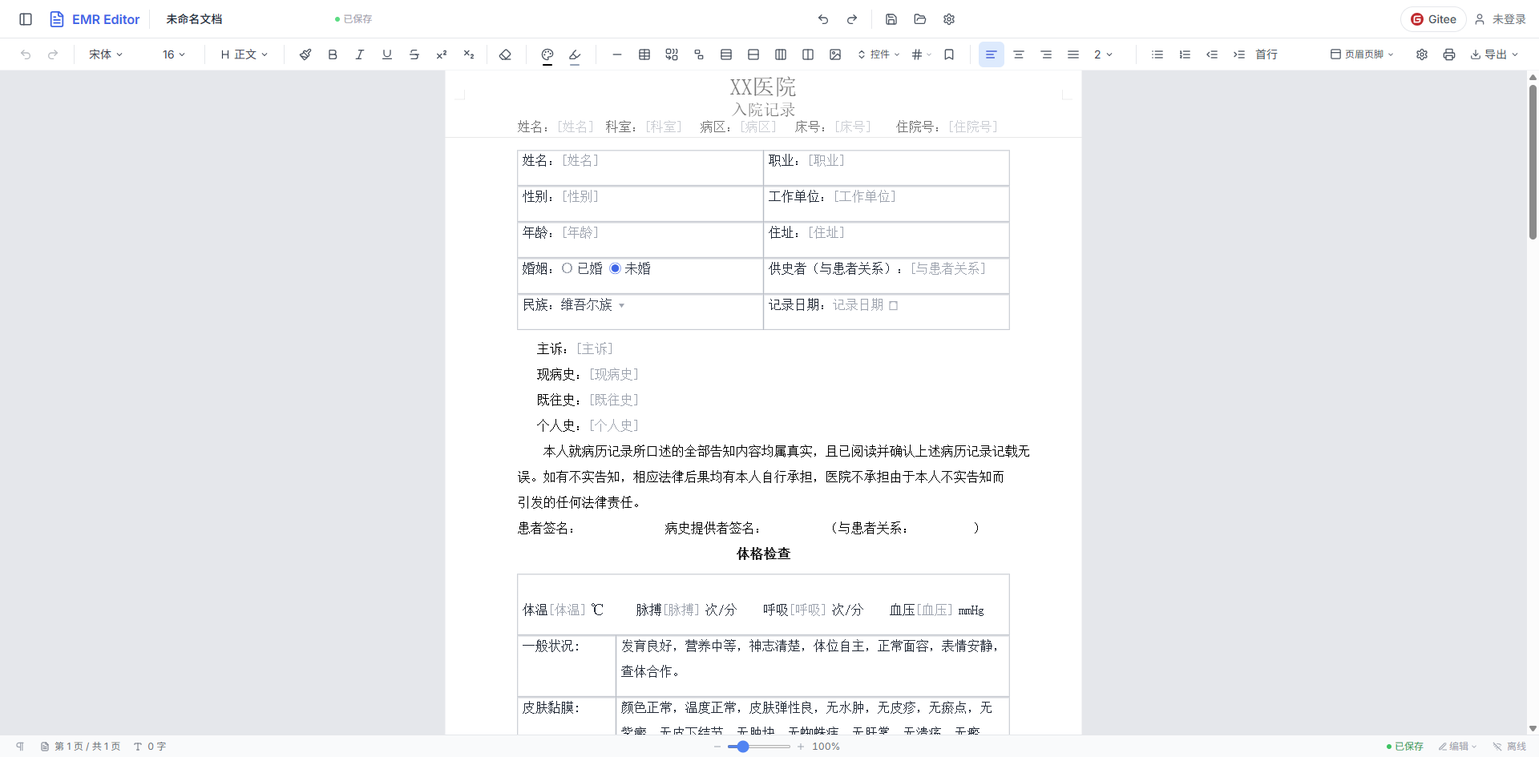
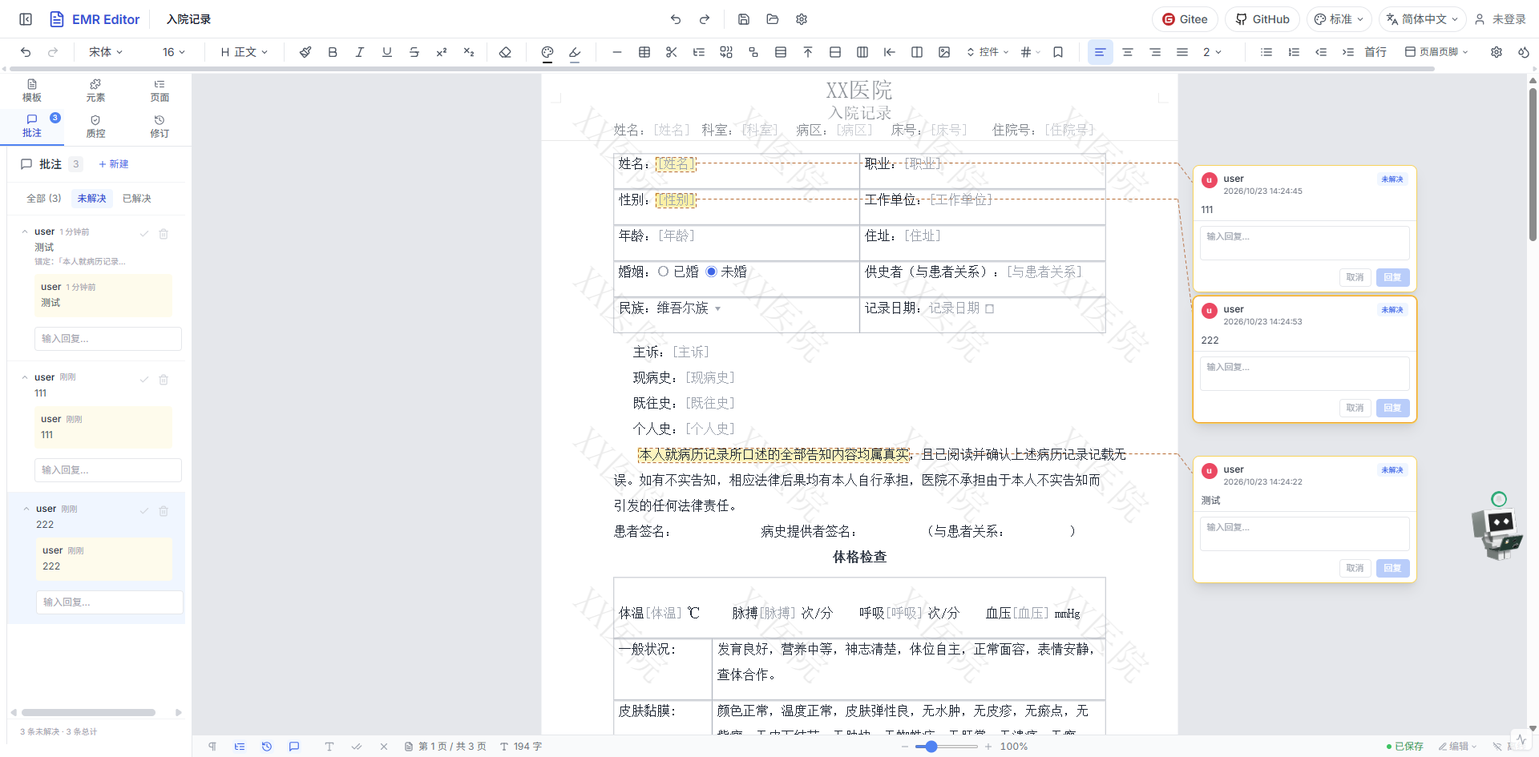
docs: 功能清单与中英 README 同步
- 知识库《编辑器功能清单》: 回填表格边缘交互、批注气泡、侧栏与设计态
  面板定位。
- README (中/英): 命令数 45、i18n 约 870 键、测试 215 文件 / 约 2400
  用例; 补充表格交互、批注气泡、分节符分页、页面设置生效、cell 内联等
  能力; 新增「近期更新」章节与语言切换入口。
- 更新首页预览截图。

diff --git a/knowledge/编辑器功能清单.md b/knowledge/编辑器功能清单.md
@@ -7,6 +7,7 @@
 > **增量收口**：2026-10-19 — `VirtualViewport` 重写为按 SLIF 实测页高的纯函数并接线（`LayoutEngine.getVisiblePages` 委托，契约 §16.1，#104 ✅）；随后 M1-M4 落地：段落布局缓存键 + 段落行缓存 + 增量分页 + 命中索引按页重建（纯文本/图片正文子集，含列表；等价性硬门与 4.6% 实测，见 [增量排版-设计方案.md](knowledge/增量排版-设计方案.md)）。**2026-10-20 表格与脚注引用纳入增量分页**（表格：子树键 + 计算值代次 + 跨页回退，实测 5.8%；脚注：Step 4 只处理新页 + 编号播种）。**2026-10-21 控件纳入增量安全子集**（段落键只对含控件段落追加计算值代次 + 模板定义版本，表格键追加模板定义版本；2000 段控件文档单次编辑 233 → 3.6 ms）；**同日页眉页脚按几何签名纳入**（签名未变时正文档编辑可续排；2000 段带页眉页脚文档 236 → 3.3 ms）；**正文域同日纳入**（含域段落键追加页数位数/locale/标题，`fieldReserveDigits` 单一实现；2000 段域文档 232 → 3.4 ms）；**同日 M2i**：表格 cell 段落补齐 field/image/footnote_ref/cross_reference（此前静默跳过），cell 内域/图片/脚注纳入安全子集（子树含域时 `#f/#l/#t` 进表格键），常量交叉引用（无 `{page}`/`{number}`）纳入行缓存与安全集、占位符版仍全量。
 > **状态复核**：2026-10-19 — 逐节回代码重审状态列（§1-§8），修正 30 余处与代码不符的描述：工具栏/键盘处理行号整体漂移；格式刷、控件插入、表格插入的真实入口；Shift+Enter 软换行**已支持**（旧条目说不支持）；缩进语义（列表走 `adjustListLevel`，非列表 outdent 是清零）；撤销自动合并当时只对 ParagraphStyleCommand 生效（已于 2026-10-20 补齐文本输入/退格，见上）；增量排版 / DirtyTracker / LayoutCache / PageStartTable / VirtualViewport **五个模块当时全部未接线**（其后 VirtualViewport、PageStartTable 与增量排版管线已接线；DirtyTracker 于 2026-10-21 作为死 API 删除；LayoutCache 与 incrementalLayout() 已于 2026-10-20 删除）；CommentParticle / ImageParticle 的真实调度方式；水印方法名；TXT/HTML 导出的实际能力；保存流程已抽 `useDocumentSave`；编辑器加载实际经 `Editor.setDocument → loadDocumentFromObject`（本轮更正：早先"未走 DocumentLoader"的结论是错的）；QC 实际 8 条规则；#41 改为"分支不存在"的 🔴 条目。校验：全文 249 条链接缺失 0；反引号标识符与调用名对源码零误报（仅剩两处刻意的"不存在"说明）
 > **最近更新**：2026-10-19 — 引擎物理剥离后的**全量路径校正**（151 处 `frontend/src/engine/` → `packages/emr-document-engine/src/engine/`，链接逐条实测可解析）；校正 11 处失效条目（#111 已删除的 LaTeXParticle、#113 批注创建、#114/#115 图表与条码粒子可达性、#129 画布主题、#154 质控接线、#156 i18n 采用度、#166 模板选择、#170 批注创建、#172 版本链、U5 用例数）；**补齐两处遗落**：§1.1 的 `section` 节点（16a）与 §6 的 OFD / CDA XML / 结构化元素三个导出（143a-143c）；**§4.3 命令清单由 15 行补到覆盖全部 43 个命令类**（92e-92ad）；§10.2/§10.3 的 PDF/DOCX 建议按 2026-10-14 不做区改注；新增 §11 记录引擎能力补齐三批
+> **最近更新**：2026-10-22 — 批注功能完善（契约 §12.14）：新建批注**不再插入 `comment_marker`**（修复同段后建批注把先建批注区间整体挤歪）、支持**跨段落**与**光标处零长度点批注**、作者接当前用户、删除线程/回复（可撤销）、已解决可重开、画布 ↔ 面板双向选中、侧栏未解决徽标、状态栏「显示批注」开关（关闭仍保留淡底色）；画布增加**虚线批注框 + 右侧黄色气泡**（作者/时间/内容），每条气泡另带**从锚点连线到气泡的虚线引线**（从页缘端点**直接斜拉**到气泡左缘；气泡按实测高度紧凑堆叠，同锚点多条各自一条，不会把下面的气泡误读成别的行）。气泡已升级为**完整线程卡片**：头像、作者、时间、未解决/已解决徽标、首条内容、可滚动回复列表、回复输入框与取消/回复按钮（回复经 `addCommentReply`，可撤销），背景走 chrome token 以跟随主题。点批注画成**满行高插入条**（不再铺一块只盖半个字的底色），空段落与控件等原子内联上的锚点同样可见。另修复「紧邻表格等非段落块的孤立空段落按 Delete/Backspace 删不掉」：空段落会被删除、块上移且可撤销；上一段是空段时退格直接删空段（不并段、不继承其行高），并修正并段后的光标落点为接缝（原实现会跳到合并段末尾）。另新增表格**「上方插入行 / 左侧插入列」**（工具栏两个按钮 + 单元格右键菜单），第一行上方、第一列左侧也能插，经 TableStructureCommand 可撤销。**同日表格编辑补齐（契约 §31.3.1）**：Ctrl+A 在 cell 内改为两级（先整表、再全文），整表/全文选择下的 Delete/Backspace 走块删除命令（整表、全选删全文；body 始终保留 ≥1 段落，单步可撤销）；整表选择另有 cell 右键「选中表格」与表格左上角悬浮手柄两个入口；表格前/后无相邻段落时点击空白只画**表外光标**（不插节点），输入字符/Enter 才物化一个空段落（InsertEmptyParagraphAtCommand），方向键可进出表格。**同日再补两处 Word 对齐**：表格是容器首块时，在首格首段段首按 Enter 会在表格上方建一个空段落（把光标落进去，可撤销）；点击表格**每一行右侧**空白时，文本插入点落到该行末格段尾，光标则像 Word 一样**画在该行右边界之外**（行尾标记位置；最后一行同样有效，跨页续表按 fragment 的 cell 身份定位）；在此行尾光标上按 Enter：末行在**表格下方**建一个空段，其余行在当前行**下方**插入一行（均单步可撤销）。侧栏 6 个 Tab 在 240px 宽度下改为 **3×2 网格**（图标在上、文字单行），修掉中文标签被挤成两行、图标错位的问题，中英文均不折行。**设计态控件库面板**改为相对编辑器画布区定位（`absolute`，画布区加 `relative`），不再用 `fixed top-16` 压住设计模式多出的页眉页脚工具栏行。文字编辑/拆并段后的自动重锚定仍不在范围内。
 > **复核修订**：2026-09-16 @ `090fd3e` — 校正 6 处失效条目（#140 / #142 / #154 / #163 / #172 与文件头版本信息）。仅校正实现路径与指向，未重排结构或改编号（编号被他文交叉引用）。
 > **盘点范围**：`packages/emr-document-engine/src/engine/` + `frontend/src/components/` + `frontend/src/pages/` 全部 TypeScript/TSX 源文件
 > **说明**：仅统计代码已实现逻辑，虚构功能不列入。边界指代码实际覆盖场景与未覆盖场景。
@@ -50,7 +51,7 @@
 | 13 | `field` | `FieldNode` | [DocumentModel.ts](packages/emr-document-engine/src/engine/document/core/DocumentModel.ts) | 域代码，fieldType 支持 8 种：page_number/total_pages/current_date/current_time/document_title/author_name/last_saved_date/print_date | ✅ 正常：插入和动态解析均已实现 |
 | 14 | `footnote_ref` | `FootnoteRef` | [DocumentModel.ts](packages/emr-document-engine/src/engine/document/core/DocumentModel.ts) | 行内脚注引用标记，targetId 指向 footnote_content | ✅ 正常 |
 | 15 | `footnote_content` | `FootnoteContent` | [DocumentModel.ts](packages/emr-document-engine/src/engine/document/core/DocumentModel.ts) | 脚注正文内容，children 为段落 ID 数组 | ✅ 正常 |
-| 16 | `comment_marker` | `CommentMarker` | [DocumentModel.ts](packages/emr-document-engine/src/engine/document/core/DocumentModel.ts) + [CommentPanel.tsx](frontend/src/components/panels/CommentPanel.tsx) | 批注标记，含 threadId、range；Editor.createComment() 创建；CommentPanel 展示/回复/解决；高亮由 `Draw.drawCommentHighlightsForPage` 直接绘制（CommentParticle 死工厂已于 2026-10-21 删除，见 #113）；DocumentTree.comments 存储线程 | ✅ 正常 |
+| 16 | `comment_marker` | `CommentMarker` | [DocumentModel.ts](packages/emr-document-engine/src/engine/document/core/DocumentModel.ts) | **仅旧文档兼容**（契约 §12.14）：新建批注不再插入该节点，范围由 `CommentThread.rangeStart/rangeEnd` 唯一表达；加载仍接受、删除线程时一并清理。批注线程见 [CommentPanel.tsx](frontend/src/components/panels/CommentPanel.tsx) 与 `DocumentTree.comments`；高亮由 `Draw.drawCommentHighlightsForPage` 绘制 | ✅ 正常（旧节点兼容） |
 | 16a | `section` | `Section` | [DocumentModel.ts](packages/emr-document-engine/src/engine/document/core/DocumentModel.ts) `NodeType.SECTION` + [ContainerChildTypes.ts](packages/emr-document-engine/src/engine/document/core/ContainerChildTypes.ts) + [StructuralCommands.ts](packages/emr-document-engine/src/engine/command/commands/StructuralCommands.ts) `InsertSectionCommand/UpdateSectionCommand` + [SectionStructureOverlay.tsx](frontend/src/components/editor/SectionStructureOverlay.tsx) | 结构化容器（契约 §31）：可嵌套（Section 可含 Section），**只允许出现在 body / Section 下**，表格 cell 内非法；子节点类型由 `ContainerChildTypes` 单点定义，三个遍历器共用；**2026-10-21** 段落内联集合（`PARAGRAPH_INLINE_CHILD_TYPES`：text/smarttext/image/field/bookmark/cross_reference/footnote_ref/comment_marker）也进入同一张表并由三边界强制，导入器遇未知行内类型改为抛错而非静默丢弃；工具栏「插入节」、右键节操作（插入/选中/删除/上移/下移/改码）、大纲树与结构叠层展示 | ✅ 正常 |
 
 ### 1.2 数据层基础设施
@@ -66,7 +67,7 @@
 | 21b | 引擎代码版本 | [EditorVersion.ts](packages/emr-document-engine/src/engine/document/version/EditorVersion.ts) | EditorVersion 与 DocumentFormatVersion 严格分离；EDITOR_VERSION(21.0.0) | ✅ 正常 |
 | 21c | 文档序列化 | [DocumentSerializer.ts](packages/emr-document-engine/src/engine/document/io/DocumentSerializer.ts) | collectDocumentNodes 收集可达节点 → 扁平 Map；serializeDocument 写 DocumentTree + nodes 扁平表 + 显式 modelVersion | ✅ 正常 |
 | 21d | 文档加载流水线 | [DocumentLoader.ts](packages/emr-document-engine/src/engine/document/io/DocumentLoader.ts) | 6 步：detect → checkCompatibility → upgrade → validate → buildModel → buildPool；LoadError 分阶段；返回 sourceVersion/upgradePath | ✅ 正常 |
-| 21e | 表格结构操作 | [TableOps.ts](packages/emr-document-engine/src/engine/document/table/TableOps.ts) | 纯函数 insertRow/deleteRow/insertColumn/deleteColumn，基于 MergeMatrix 网格占位，正确处理跨界 span | ✅ 正常 |
+| 21e | 表格结构操作 | [TableOps.ts](packages/emr-document-engine/src/engine/document/table/TableOps.ts) | 纯函数 insertRow/insertRowBefore/deleteRow/insertColumn/insertColumnBefore/deleteColumn，基于 MergeMatrix 网格占位，正确处理跨界 span；前插可落在表首（第一行上方 / 第一列左侧） | ✅ 正常 |
 
 ---
 
@@ -79,9 +80,9 @@
 | 序号 | 功能 | 代码入口 | 功能边界 | 现状 |
 |---|---|---|---|---|
 | 22 | 可见字符输入 | [KeyboardHandler.ts](packages/emr-document-engine/src/engine/interaction/KeyboardHandler.ts) L181-229 | 单字符输入 → InsertTextCommand；有选区时先删选区再插入；空文档首次输入自动创建段落（EnsureBodyParagraphCommand）；继承光标处已有文本样式 | ✅ 正常 |
-| 23 | Enter 拆段 | [KeyboardHandler.ts](packages/emr-document-engine/src/engine/interaction/KeyboardHandler.ts) L113-127 | Enter → SplitParagraphCommand；**Shift+Enter 已支持软换行**：插入 `\n`，由 TextWrap 按逻辑行拆行、不新建段落/列表项 | ✅ 正常 |
-| 24 | Backspace 删除 | [KeyboardHandler.ts](packages/emr-document-engine/src/engine/interaction/KeyboardHandler.ts) L129-144 | 有选区→删选区；光标在段中→删前一个字符(DeleteRangeCommand)；光标在段首→与前段合并(MergeParagraphCommand) | ✅ 正常 |
-| 25 | Delete 删除 | [KeyboardHandler.ts](packages/emr-document-engine/src/engine/interaction/KeyboardHandler.ts) L146-180 | 有选区→删选区；光标在段中→删后一个字符；光标在段尾→与后段合并；设计模式下删除选中控件（deletable 守卫） | ✅ 正常 |
+| 23 | Enter 拆段 | [KeyboardHandler.ts](packages/emr-document-engine/src/engine/interaction/KeyboardHandler.ts) `onKeyDown` Enter 分支 | Enter → SplitParagraphCommand（**例外**：表格是容器首块且光标在首格首段段首时，改为在表格上方建段，见 #33c）；**Shift+Enter 已支持软换行**：插入 `\n`，由 TextWrap 按逻辑行拆行、不新建段落/列表项 | ✅ 正常 |
+| 24 | Backspace 删除 | [KeyboardHandler.ts](packages/emr-document-engine/src/engine/interaction/KeyboardHandler.ts) L142-176 | 有选区→删选区；光标在段中→删前一个字符(DeleteRangeCommand)；光标在段首→与前段合并(MergeParagraphCommand)；**上一段是空段→删除该空段而不是并段**（并段会让当前行继承空段行高）；**没有可并的段落且本段为空（文档首段，或上一块是表格等非段落块）→删除该空段落**（均可撤销） | ✅ 正常 |
+| 25 | Delete 删除 | [KeyboardHandler.ts](packages/emr-document-engine/src/engine/interaction/KeyboardHandler.ts) L178-210 | 有选区→删选区；光标在段中→删后一个字符；光标在段尾→与后段合并；**空段落后面直接是表格/图片/分节符等非段落块时→删除该空段落（RemoveNodesCommand，可撤销）**，非空段落不会被整段删除；设计模式下删除选中控件（deletable 守卫） | ✅ 正常 |
 | 26 | IME 中文输入 | [IMEHandler.ts](packages/emr-document-engine/src/engine/interaction/IMEHandler.ts) + [Editor.ts](packages/emr-document-engine/src/engine/Editor.ts) L389-421 | 隐藏 textarea 捕获 compositionstart/update/end；compositionend → InsertTextCommand → 触发 AutoCorrectEngine（L420） | ✅ 正常 |
 
 ### 2.2 光标与选区
@@ -94,7 +95,10 @@
 | 30 | Home/End 导航 | [KeyboardHandler.ts](packages/emr-document-engine/src/engine/interaction/KeyboardHandler.ts) L435-457 | Home→段首，End→段尾；Ctrl+Home→区域首段首字符；Ctrl+End→区域末段末字符 | ✅ 正常 |
 | 31 | PageUp/PageDown | [KeyboardHandler.ts](packages/emr-document-engine/src/engine/interaction/KeyboardHandler.ts) L458-486 | 基于 SLIF 页面跳转：findCaretPage → 目标页第一个有内容的段落；支持 header/footer 区域 | ✅ 正常 |
 | 32 | Shift+方向键扩展选区 | [KeyboardHandler.ts](packages/emr-document-engine/src/engine/interaction/KeyboardHandler.ts) L488-503 | 首次 Shift 设置 anchor 为原光标；此后每次导航只移动 focus；granularity='character'；无 Shift 时清除选区 | ✅ 正常 |
-| 33 | Ctrl+A 全选 | [Editor.ts](packages/emr-document-engine/src/engine/Editor.ts) `selectAll()` + [KeyboardHandler.ts](packages/emr-document-engine/src/engine/interaction/KeyboardHandler.ts) L86 | 选中 body 下所有段落的全部字符（首段 offset=0 到末段 offset=末段长度） | ✅ 正常 |
+| 33 | Ctrl+A 全选 | [Editor.ts](packages/emr-document-engine/src/engine/Editor.ts) `selectAll()` + [KeyboardHandler.ts](packages/emr-document-engine/src/engine/interaction/KeyboardHandler.ts) L86 | **两级（2026-10-22，契约 §31.3.1）**：光标在 cell 内 → 第一次选整表（`selectWholeTable`，复用 `cellRange` 全网格做视觉），第二次才选全文；光标不在表格内 → 直接选全文。全文选择置 `documentSelected`，Draw 给所有表格描 2px 边框；Delete/Backspace 删除全部块并保留一个空段落（一个 `RemoveNodesCommand`，一次撤销），字符输入 = 删全文 + 插入（macro 一次撤销） | ✅ 正常 |
+| 33a | 整表选择与删除 | [Editor.ts](packages/emr-document-engine/src/engine/Editor.ts) `selectWholeTable` / `getWholeTableSelection` / `deleteSelectedTable` + [TableSelectHandleOverlay.tsx](frontend/src/components/editor/TableSelectHandleOverlay.tsx) + [contextMenuModel.ts](frontend/src/components/editor/contextMenuModel.ts) | 三个入口：cell 内 Ctrl+A 第一次、cell 右键「选中表格」、表格左上角悬浮手柄（鼠标移到表格上出现 16px 手柄，命中几何与批注气泡同源 `getTableClientRects`）。Delete/Backspace 经 `deleteNode` 删整表（body 被删空时同命令补空段落）；整表状态是 transient，不序列化 | ✅ 正常 |
+| 33b | 表外光标（表格前后落光标） | [Editor.ts](packages/emr-document-engine/src/engine/Editor.ts) `setBlockCaret` / `materializeBlockCaret` / `resolveBlockGap` + [StructuralCommands.ts](packages/emr-document-engine/src/engine/command/commands/StructuralCommands.ts) `InsertEmptyParagraphAtCommand` + [KeyboardHandler.ts](packages/emr-document-engine/src/engine/interaction/KeyboardHandler.ts) `handleBlockCaretNav` | 点击表格前/后的空白：有相邻段落 → 落段尾/段首；表格位于容器首/尾（无相邻段落）→ **只画表外光标，不插节点**；输入字符或 Enter 时才经命令物化一个空段落（`MintedOnce`，可撤销），点击本身绝不改文档。方向键：before+Down/Right 进首格、after+Up/Left 进末格；反方向找相邻段落；before+Delete / after+Backspace 删除该表 | ✅ 正常 |
+| 33c | 表格边缘交互（Word 对齐） | [Editor.ts](packages/emr-document-engine/src/engine/Editor.ts) `applyTableRowSideCaret` / `insertEmptyParagraphBeforeBlock` + [Draw.ts](packages/emr-document-engine/src/engine/render/Draw.ts) `rowEndCaret` + [KeyboardHandler.ts](packages/emr-document-engine/src/engine/interaction/KeyboardHandler.ts) `leadingTableFirstCellAt` | **首格回车**：表格是容器首块且光标在首格首段段首（offset 0）时，Enter 在表格**上方**建一个空段落并把光标落进去（`InsertEmptyParagraphAtCommand`，可撤销）；其它 cell 位置仍拆 cell 段落。**行右侧点击**：点在表格右边界之外、纵向落在某一行带内（含跨页重复表头 → 逻辑首行）→ 文本插入点落到该行**最右单元格最后段落的末尾**，但光标**画在该行右边界之外**（Word 行尾标记位置，transient `RowEndCaret` 保存行带几何；激活时不画格内光标）；最后一行同样有效；点击/任意按键/文档变更都会清除该标记。**行尾光标 + Enter**：末行 → 在表格**下方**（紧贴表格、位于原有后段之前）建一个空段落并把光标落进去；其余行 → 在当前行**下方**插入一行并把光标落到新行首格（均单步可撤销）；嵌套在 cell 内的表没有 body/Section 父容器，末行回车降级为插行。用 fragment 的 `cell.id` 定位，跨页续表不会落错行 | ✅ 正常 |
 | 34 | 鼠标拖选 | [MouseHandler.ts](packages/emr-document-engine/src/engine/interaction/MouseHandler.ts) `onMouseDown/Move/Up` | anchor/focus 双光标模型，mousemove 时更新 focus；支持跨段落拖选；双击检测(400ms/8px阈值)；支持页眉页脚区域内拖选；拖拽结束后光标跟随选区终点 | ✅ 正常 |
 | 35 | 选区高亮渲染 | [Draw.ts](packages/emr-document-engine/src/engine/render/Draw.ts) `renderSelectionUnified()` | interact 层蓝色矩形高亮；支持同段落和跨段落选区；offset 裁剪与 ClipboardManager.copy 一致 | ✅ 正常 |
 | 36 | 单选清除 | [MouseHandler.ts](packages/emr-document-engine/src/engine/interaction/MouseHandler.ts) L405-411 | 鼠标单击 → `setSelection({active:false})` 清空选区并把光标移到点击位置 | ✅ 正常 |
@@ -157,6 +161,7 @@
 |---|---|---|---|---|---|
 | 64 | 插入分隔线 | `Toolbar.tsx` L201 | `insertSeparator()` | 在光标所在段落后插入分隔线（SeparatorNode 不带 style，渲染默认 `lineStyle:'solid'`，另支持 dashed/dotted/double） | ✅ 正常 |
 | 65 | 插入表格 | `Toolbar.tsx` L204 | `insertTable(rows, cols)` | 点击弹 `TableSizePicker` 选择行列（上限 10 行 × 8 列，默认 1×1 起选），每个 cell 含一个空段落 | ✅ 正常 |
+| 65a | 表格上方插行 / 左侧插列 | [Toolbar.tsx](frontend/src/components/layout/Toolbar.tsx) + [Editor.ts](packages/emr-document-engine/src/engine/Editor.ts) + [TableOps.ts](packages/emr-document-engine/src/engine/document/table/TableOps.ts) + [contextMenuModel.ts](frontend/src/components/editor/contextMenuModel.ts) | `insertTableRowAbove` / `insertTableColumnLeft` → `insertRowBefore` / `insertColumnBefore`；工具栏新增「上方插入行」「左侧插入列」按钮，cell 右键菜单新增同名两项；第一行上方 / 第一列左侧也能插入；经 TableStructureCommand 可撤销 | ✅ 正常 |
 | 66 | 插入图片 | `Toolbar.tsx` L231 | `insertImage(dataUrl, naturalW, naturalH)` | 隐藏 `<input type=file accept=image/*>` → FileReader 读 dataUrl → 预加载 `Image` 取原始宽高 → InsertImageCommand（文本中插入拆分节点） | ✅ 正常 |
 | 67 | 插入控件 | `Toolbar.tsx` InsertControlDropdown L544 | `insertControl(element, definition)` | 工具栏向导收拢为 3 类入口（单行文本 input / 单选 radio / 复选 checkbox），点选后开配置弹框（`ControlInputDialog` / `ControlChoiceDialog`）；设计模式下另有 `DesignControlPalette` 按控件库任意插入。控件属性面板展示 8 种 controlType（input/textarea/number/select/date/datetime/checkbox/radio），controlType 创建后只读 | ✅ 正常 |
 | 68 | 插入域代码(8种) | `Toolbar.tsx` FieldDropdown L744 | `insertFieldCode(type)` | pageNumber/totalPages/currentDate/currentTime/authorName/documentTitle/lastSavedDate/printDate → 映射为 `FieldType` 枚举（`page_number`/`total_pages`/`current_date`/…）→ FieldNode + 动态解析渲染 | ✅ 正常 |
@@ -222,8 +227,10 @@
 | 92o | UpdateControlElementCommand | [UpdateControlElementCommand.ts](packages/emr-document-engine/src/engine/command/commands/UpdateControlElementCommand.ts) | 控件语义层编辑（契约 §12.7） | 复用自身，把 element/text 精确还原为快照 |
 | 92p | SetTableGrowableCommand | [SetTableGrowableCommand.ts](packages/emr-document-engine/src/engine/command/commands/SetTableGrowableCommand.ts) | 切换「填写时可增长」（契约 §12.9） | 记录旧值后还原（`undefined` 与 `false` 必须区分） |
 | 92q | AppendTableRowCommand | [AppendTableRowCommand.ts](packages/emr-document-engine/src/engine/command/commands/AppendTableRowCommand.ts) | 可增长表追加一行（契约 §12.9，PRD F8.2） | 记录插入位置，invert 时移除该行 |
-| 92r | CreateCommentCommand | [StructuralCommands.ts](packages/emr-document-engine/src/engine/command/commands/StructuralCommands.ts) | 创建批注（CommentMarker + CommentThread） | 移除 marker 与线程 |
+| 92r | CreateCommentCommand | [StructuralCommands.ts](packages/emr-document-engine/src/engine/command/commands/StructuralCommands.ts) | 创建批注（仅 CommentThread，不再插入 marker） | 删除该线程 |
+| 92r2 | DeleteCommentCommand | [StructuralCommands.ts](packages/emr-document-engine/src/engine/command/commands/StructuralCommands.ts) | 删除整条批注线程（契约 §12.14） | 恢复线程与旧 marker 到原下标（保留 id） |
 | 92s | AddCommentReplyCommand | [StructuralCommands.ts](packages/emr-document-engine/src/engine/command/commands/StructuralCommands.ts) | 批注回复 | 移除该条回复 |
+| 92s2 | DeleteCommentReplyCommand | [StructuralCommands.ts](packages/emr-document-engine/src/engine/command/commands/StructuralCommands.ts) | 删除一条批注回复 | 按原下标恢复 id/作者/时间/editedAt |
 | 92t | ResolveCommentCommand | [StructuralCommands.ts](packages/emr-document-engine/src/engine/command/commands/StructuralCommands.ts) | 批注解决 / 重开 | 恢复原状态 |
 | 92u | EnsureBodyParagraphCommand | [StructuralCommands.ts](packages/emr-document-engine/src/engine/command/commands/StructuralCommands.ts) | 空文档首次输入时确保 body 有段落 | 移除补出的段落 |
 | 92v | EnsureCellParagraphCommand | [StructuralCommands.ts](packages/emr-document-engine/src/engine/command/commands/StructuralCommands.ts) | 导航进入空单元格时确保 cell 有段落 | 移除补出的段落 |
@@ -283,7 +290,7 @@
 | 110 | ImageParticle | [ImageParticle.ts](packages/emr-document-engine/src/engine/render/particles/ImageParticle.ts) | 图片渲染粒子：Draw 直接 `createImageParticle()` 持有并逐项调用（Draw.ts L225/L1272），**不走 ParticleRegistry**；支持异步加载+占位符+缓存 | ✅ 正常 |
 | 111 | ~~LaTeXParticle~~ | — | **已删除，不是遗漏**：文档模型里从来没有 latex 节点类型，KaTeXRenderer / LaTeXParticle 一并移除（见 [FootnoteLayout.test.ts](packages/emr-document-engine/src/engine/__tests__/FootnoteLayout.test.ts) 的说明）。公式能力走 §12.12 计算式引擎（`engine/evaluation/`），计算值经布局期 `controlViewOf` 进入 SLIFItem.text，再交给既有粒子管线，与 KaTeX 无关 | ✅ 正常（按设计移除） |
 | 112 | FootnoteParticle | [FootnoteParticle.ts](packages/emr-document-engine/src/engine/render/particles/FootnoteParticle.ts) | 脚注引用上标编号渲染 | ✅ 正常 |
-| 113 | ~~CommentParticle~~ | [CommentParticle.ts](packages/emr-document-engine/src/engine/render/particles/CommentParticle.ts)（仅剩颜色常量） | **已删除死工厂（2026-10-21）**：`createCommentParticle` 从未被 particleRegistry 注册、布局也不为 comment_marker 产出 SLIF item，render() 永不执行；barrel 导出一并移除。批注高亮唯一入口是 `Draw.drawCommentHighlightsForPage()`（按 doc.comments 的 range 解析，屏幕/打印共用）；模块保留 `COMMENT_HIGHLIGHT`/`commentHighlight` 供 Draw 引用。批注功能本身可用（CommentPanel 内联输入 → `Editor.createComment`） | 🗑 已删除死工厂 |
+| 113 | ~~CommentParticle~~ | [CommentParticle.ts](packages/emr-document-engine/src/engine/render/particles/CommentParticle.ts)（仅剩颜色常量） | **已删除死工厂（2026-10-21）**：`createCommentParticle` 从未被 particleRegistry 注册、布局也不为 comment_marker 产出 SLIF item，render() 永不执行；barrel 导出一并移除。批注高亮唯一入口是 `Draw.drawCommentHighlightsForPage()`（按 `CommentRenderPlan` 逐 item 解析，屏幕/打印共用）；模块保留 `COMMENT_HIGHLIGHT` / `commentHighlight` / `commentHighlightFaint` / `commentHighlightActive` 供 Draw 引用 | 🗑 已删除死工厂 |
 | 114 | ChartParticle | [ChartParticle.ts](packages/emr-document-engine/src/engine/render/particles/ChartParticle.ts) | 图表粒子(bar/line/pie/radar/scatter)；已注册到 ParticleRegistry | ⚠ 已注册但**布局层从不产出**对应 SLIFItem，界面上不可达（图表是独立产品垂直，见设计方案 §5 不做区） |
 | 115 | BarcodeParticle | [BarcodeParticle.ts](packages/emr-document-engine/src/engine/render/particles/BarcodeParticle.ts) | 条码粒子(Code128B + QR)；已注册到 ParticleRegistry | ⚠ 已注册但**布局层从不产出**对应 SLIFItem，界面上不可达 |
 
@@ -379,7 +386,7 @@
 | 167 | 水印设置对话框 | [WatermarkDialog.tsx](frontend/src/components/dialogs/WatermarkDialog.tsx) | 水印类型/文本/字体/大小/颜色/透明度/旋转角度设置 | ✅ 正常 |
 | 168 | 书签对话框 | [BookmarkDialog.tsx](frontend/src/components/dialogs/BookmarkDialog.tsx) | 书签管理 UI | ✅ 正常 |
 | 169 | 阅读模式 | [ReadingMode.tsx](frontend/src/components/views/ReadingMode.tsx) | 全屏阅读覆盖层 | ✅ 正常 |
-| 170 | 评论面板 | [CommentPanel.tsx](frontend/src/components/panels/CommentPanel.tsx) | 批注列表展示 + 内联新建输入 + 回复 + 解决；新建经 `Editor.createComment`（锚定失败返回 false 并提示），条目点击经与质控共用的 `revealLocation` 定位 | ✅ 正常 |
+| 170 | 评论面板 | [CommentPanel.tsx](frontend/src/components/panels/CommentPanel.tsx) + [CommentBalloonOverlay.tsx](frontend/src/components/editor/CommentBalloonOverlay.tsx) | 批注列表 + 内联新建 + 回复 + 解决/**重开** + **删除线程/回复**；支持**跨段落**与**光标处零长度点批注**（不必先选文字）；范围批注呈现为底色 + **虚线框**，点批注呈现为**满行高插入条**（强调层开启时带小旗与连接线，关闭/已解决时降透明度仍可见）；右侧**黄色气泡**为完整线程卡片：头像 + 作者 + 时间 + 未解决/已解决徽标、首条内容、可滚动回复列表、回复输入框与取消/回复按钮（回复走 `Editor.addCommentReply`，可撤销）；每条气泡带从页缘端点斜拉到气泡左缘的虚线引线，气泡按实测高度紧凑堆叠；空段落与控件等原子内联锚点同样有标记；侧栏未解决徽标 | ✅ 正常 |
 | 171 | Host 抽象 | [EditorHost.ts](packages/emr-document-engine/src/engine/host/EditorHost.ts) | EditorHost 能力边界（TextHost/FontHost/SurfaceHost/ViewportHost/InputHost/PlatformHost）；构造器注入，禁止全局 host 注册表；引擎不直接访问浏览器全局（契约 §27/§28） | ✅ 正常 |
 | 172 | 文档版本系统 | [DocumentFormatVersion.ts](packages/emr-document-engine/src/engine/document/version/DocumentFormatVersion.ts) + [EditorVersion.ts](packages/emr-document-engine/src/engine/document/version/EditorVersion.ts) | DocumentFormatVersion(**v4.9.0**) 与 EditorVersion(v21.0.0) 严格分离；ModelUpgrader 链式升级，**12 段**已注册（v1→v2→v3→v4.0→4.1→4.2→4.3→4.4→4.5→4.6→4.7→4.8→4.9）；v4.5 页眉页脚变体、v4.6 表动态行、v4.7 Section、v4.8 formula、v4.9 revision 均为显式 NO-OP；SLIFVersion 为名义独立类型与独立常量 | ✅ 正常 |
 | 173 | 架构契约 | [.claude/AI_EDITOR_CONTRACT.md](.claude/AI_EDITOR_CONTRACT.md) | 可判定不变量：mutation 全走 Command、单一状态 owner、NodePool 类型级收口、Host 抽象；ContractCompliance 测试守卫 | ✅ 正常 |
@@ -396,7 +403,7 @@
 | U2 | **DOCX 导出** | `handleExport('word')` | ExportDialog 标记 `available: false`，无任何 DOCX 生成逻辑。**2026-10-14 已裁定不做** | — |
 | U3 | **HarfBuzz WASM L2 文本测量** | [TextMeasurer.ts](packages/emr-document-engine/src/engine/layout/text/TextMeasurer.ts) | 仅有 Canvas L1 measureText，无 WASM 集成代码（需第三方库） | 🟡 中 |
 | U4 | **协同编辑（实时同步）** | CommandContext collab 模式 | Yjs 依赖已安装；契约 §9 定义为 deferred capability（边界已固定，实现后置）；未接入 Editor 编辑流 | 🟡 中 |
-| U5 | **E2E 测试套件** | `__tests__/` | 206 个 Vitest 测试文件（2302 条用例通过 + 1 条跳过，含契约合规/联动/选区格式化/表格操作/修订/计算式等回归测试与多条静态闸门），无 Playwright/Cypress 端到端测试（2026-10-20 评估：Canvas 编辑器 DOM 断言价值低，建议以宿主冒烟替代，未立项） | 🟡 中 |
+| U5 | **E2E 测试套件** | `__tests__/` | 215 个 Vitest 测试文件（2381 条用例通过 + 1 条跳过，含契约合规/联动/选区格式化/表格操作/修订/计算式等回归测试与多条静态闸门），无 Playwright/Cypress 端到端测试（2026-10-20 评估：Canvas 编辑器 DOM 断言价值低，建议以宿主冒烟替代，未立项） | 🟡 中 |
 | U6 | **协作光标 / Awareness** | y-websocket | 无远程用户光标渲染；契约 §9.1 明确 awareness 不得进入 DocumentModel / 序列化 | 🟢 低 |
 
 ---

diff --git a/README.en.md b/README.en.md
@@ -4,6 +4,8 @@
 
 **A professional, high-performance, embeddable electronic medical record (EMR) document editing engine**
 
+[简体中文](README.md) · **English**
+
 [![Live Demo](https://img.shields.io/badge/Live%20Demo-Try%20it%20now-2563eb?style=flat-square&logo=vercel)](http://139.196.151.15/)
 [![License: MPL 2.0](https://img.shields.io/badge/License-MPL%202.0-22c55e?style=flat-square)](LICENSE)
 [![PRs Welcome](https://img.shields.io/badge/PRs-Welcome-84cc16?style=flat-square)](#contributing)
@@ -41,8 +43,8 @@ No local setup required — just open it and try:
 
 - **Rich text formatting**: bold / italic / underline (single, double, wavy) / strikethrough / superscript / subscript / font family (8) / font size (12 steps) / text color / highlight
 - **Paragraph layout**: left / center / right / justify, ordered and unordered lists (multi-level indent, 6 numbering styles), heading levels (1–6), paragraph indent
-- **Tables**: insert tables, merge / split cells, add and remove rows and columns, repeat header rows across pages, append rows
-- **Professional elements**: images, dividers (4 styles), section breaks and **sections** (Section), headers and footers (including first-page / odd-even per-page variants), footnotes, bookmarks and cross-references, field codes
+- **Tables**: insert tables (cells may nest another table), merge / split cells, add and remove rows and columns, repeat header rows across pages, append rows; **whole-table selection** (two-stage Ctrl+A / hover handle at the table's top-left corner / cell context menu) and **block-level deletion of a table or the whole document** (through commands, undoable); **Word-style table-edge caret** — clicking to the right of any row places the caret at that row's end, Enter there inserts a row below (on the last row it creates a paragraph after the table), and Enter at the start of the first cell creates a paragraph above the table
+- **Professional elements**: images, dividers (4 styles), section breaks (next page / continuous / even page / odd page) and **sections** (Section), headers and footers (including first-page / odd-even per-page variants), footnotes, bookmarks and cross-references, field codes
 - **Find & replace**: regex, whole-word and case-sensitive matching; replacements are undoable
 - **Format painter**: copy / apply text styles in one click
 
@@ -56,26 +58,26 @@ No local setup required — just open it and try:
 
 ### Pagination & Rendering
 
-- **True typesetting**: reproduces A4 paper size, margins, orientation and pagination rules; the page-setup dialog adjusts paper / margins / layout, with print preview
+- **True typesetting**: reproduces A4 paper size, margins, orientation and pagination rules; paper / margins / layout chosen in the page-setup dialog **drive the layout directly**, with print preview
 - **Virtual scrolling**: only visible pages are rendered, so long documents scroll smoothly
-- **Incremental layout**: dirty-region tracking and layout caching — only the affected region is re-laid out after an edit
+- **Incremental layout**: dirty-region tracking and layout caching — paragraph lines in the body domain and constant cross-references are both part of the incremental-safe set, so only the affected region is re-laid out after an edit
 - **Three-layer Canvas + particle system**: static / content / interact layers, with particles for text, tables, images, formulas, footnotes, charts, barcodes and more
 - **Formula rendering**: LaTeX support via KaTeX
 - **Watermark**: text / image / tile three types
 
 ### Editing Experience
 
-- **Undo / redo**: driven by the command pattern, 40 undoable command types, 500 ms typing coalescing, stack depth 100
+- **Undo / redo**: driven by the command pattern, 45 undoable command types, 500 ms typing coalescing, stack depth 100
 - **Clipboard**: copy / cut / paste, with three paste modes — keep source formatting / match destination formatting / plain text
 - **Auto save**: IndexedDB local storage, 3-second debounce, keeps the last 3 versions, supports crash recovery
 - **Auto correct**: 25 built-in medical abbreviation rules plus Chinese punctuation pairing
 - **Chinese IME**: full IME composition input support
 - **Six editing modes**: edit / readonly / form / clean / design / print, switchable in one click
-- **Auxiliary views**: outline navigation, reading mode, comments panel, performance panel
+- **Auxiliary views**: outline navigation, reading mode, comments sidebar and **on-canvas comment balloons**, performance panel
 
 ### Internationalization & Theming
 
-- **Bilingual UI**: built-in zh-CN / en-US message tables (~800 keys), one-click switch in the top bar with persistence
+- **Bilingual UI**: built-in zh-CN / en-US message tables (~870 keys), one-click switch in the top bar with persistence
 - **UI themes**: standard / eye-care / print / dark four chrome presets; canvas theming with 4 presets × 28 tokens
 
 ### Document Lifecycle
@@ -83,11 +85,21 @@ No local setup required — just open it and try:
 - **Template system**: public / private template categories, one-click apply
 - **Document comparison**: visualize the differences between two versions (insert / delete / modify stats)
 - **Version records**: each save automatically archives a history version (persisted on the backend; rollback UI on the [Roadmap](#roadmap))
-- **Comments**: inline comment markers, discussion threads, replies and a "resolved" state
+- **Comments**: inline comment markers, thread cards along the right page edge (avatar / author / time / resolved state / reply input, with a leader line to the anchor), discussion threads, replies and a "resolved" state
 - **Import**: JSON / `.emr` (full pipeline), HTML / Markdown (simplified parsing)
 - **Export**: JSON / TXT / HTML / structured-elements JSON / HL7 CDA XML / OFD (GB/T 33190-2016)
 
 > See the [Roadmap](#roadmap) at the end for PDF / DOCX export, HarfBuzz shaping, collaborative editing, audit logging and more.
+
+## Recent Updates (2026-10)
+
+- **Word-aligned table interaction**: whole-table selection (two-stage Ctrl+A / hover handle / context menu), undoable block-level deletion of a table or the whole document, a caret at the end of every row, and Word semantics for Enter at the row end (insert a row, or create a paragraph after the last row) and at the start of the first cell (create a paragraph above the table)
+- **Comment balloons**: thread cards outside the right page edge (avatar / author / time / resolved state / reply input), leader lines straight from anchor to balloon, compact stacking based on measured heights
+- **Section-break pagination**: `breakType` next page / continuous / even page / odd page now paginate
+- **Page setup takes effect**: paper size, margins and orientation feed layout and rendering
+- **Inline content in table cells**: paragraphs inside cells are peers of the body (images, sections, controls, …), and nested tables are legal and editable
+- **Incremental layout expanded**: body-domain paragraph line caching plus constant cross-references in the incremental-safe set
+- **Chrome polish**: 3×2 sidebar tab strip, design-mode control library panel positioned relative to the canvas, full canvas-theme and i18n coverage
 
 ## Architecture Overview
 
@@ -147,7 +159,7 @@ The editor engine injects host capabilities through the `EditorHost` six-tuple (
 | Cache | Redis |
 | API docs | Springdoc OpenAPI (Swagger) |
 | Database | MySQL 8.0+ (built-in H2 mode for development) |
-| Testing | Vitest + Testing Library (~170 test files; Playwright E2E planned) |
+| Testing | Vitest + Testing Library (215 test files, ~2,400 cases; Playwright E2E planned) |
 
 ## Quick Start
 
@@ -275,9 +287,9 @@ EMRDocumentEngine/
 
 ### Front-end Editor Engine
 
-- **DocumentModel / NodePool**: document data model with 17 node types (including sections), flat node pool with ID references
+- **DocumentModel / NodePool**: document data model with 17 node types (including sections), flat node pool with ID references; tables may nest, and inline children allowed in cell paragraphs are the same as in the body
 - **ContainerChildTypes**: container child-type contract, declaring and validating the children each container allows (single source of truth)
-- **LayoutEngine**: layout engine (line breaking / pagination / incremental / virtual viewport / kinsoku / orphan-widow control)
+- **LayoutEngine**: layout engine (line breaking / pagination / section-break pagination semantics / incremental / virtual viewport / kinsoku / orphan-widow control)
 - **LayeredRenderer / Draw**: three-layer Canvas renderer and particle system
 - **TextMeasurer / FontManager**: text measurement and font metrics (Canvas measurement first)
 - **CommandManager / CommandUndoRedoStack**: command execution, undo / redo and macros
